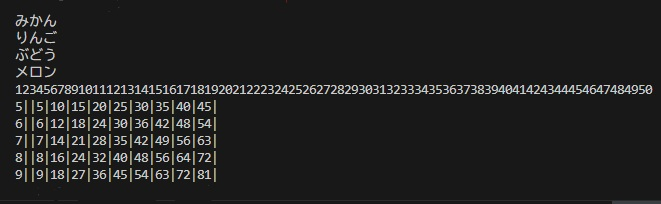
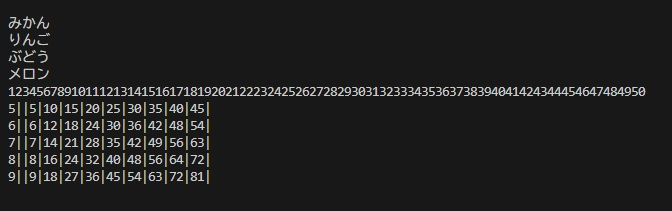
修正2-10

Changed region(s): [[0.0, 0.4118, 0.9985, 0.8824], [0.0, 0.0588, 0.0908, 0.3824], [0.9077, 0.9706, 1.0, 1.0]]

diff --git a/Study/2-10/Task2_10.java b/Study/2-10/Task2_10.java
@@ -43,12 +43,8 @@ public class Task2_10 {
 
         //各段の計算結果(１から９までを掛ける)ループ
        for(int kakeru = 1;kakeru<=9;kakeru++){
-        //計算結果と区切りを表示
-        System.out.print(dan*kakeru);
-        //最後の要素以外は"|"を表示
-       if(kakeru<=9){
-        System.out.print("|");
-         }   
+        // 修正  計算結果と区切り "|"をつなげて一度に表示
+        System.out.print((dan*kakeru) + "|"); 
         }
         //一つの段が終わったら改行
        System.out.println();
